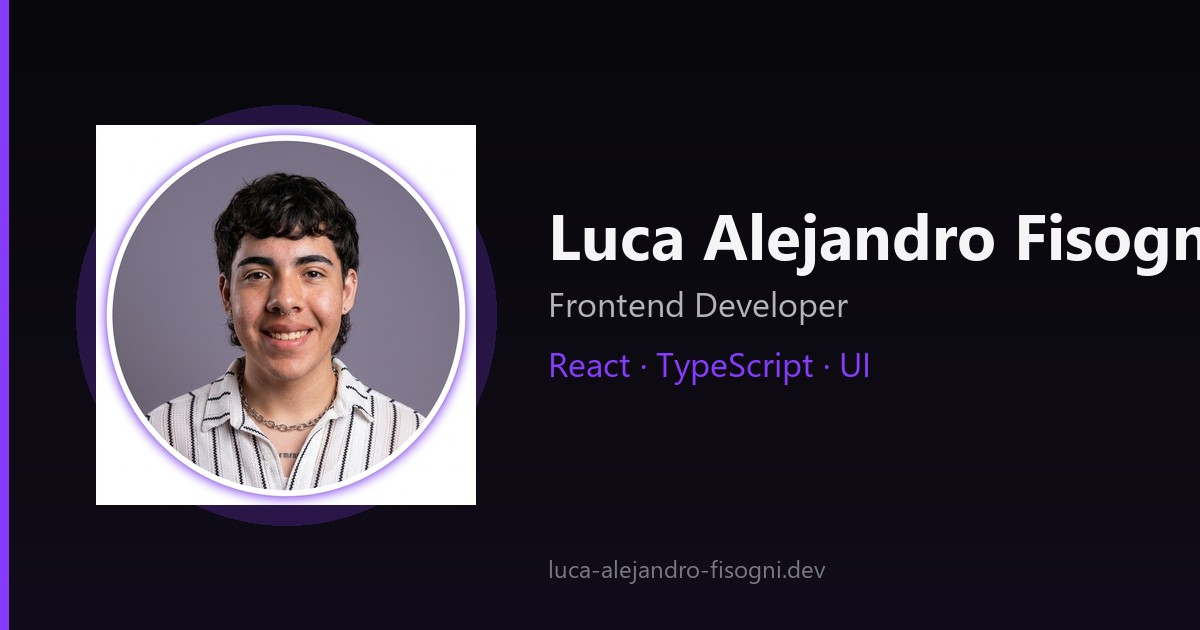
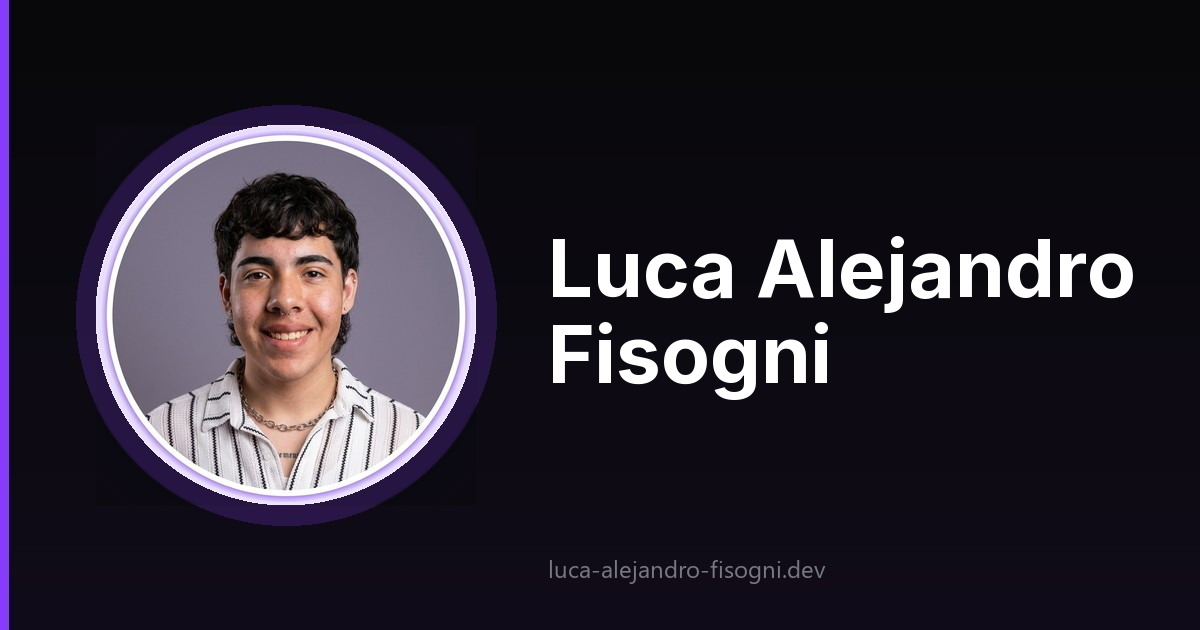
Mostrá el nombre entero en la imagen de Google y dejá el primer vistazo en español.

diff --git a/src/components/About.tsx b/src/components/About.tsx
@@ -29,14 +29,16 @@ export function About() {
               >
                 {copy.about.title}
               </h2>
-              <p className="mt-5 text-[15px] leading-relaxed text-white/75">{copy.about.bio[0]}</p>
+              <p data-nosnippet="" className="mt-5 text-[15px] leading-relaxed text-white/75">
+                {copy.about.bio[0]}
+              </p>
             </div>
           </div>
         </article>
 
         <article className="liquid-glass w-full rounded-[28px] px-6 py-8 md:ml-auto md:w-[86%] md:px-10 md:py-10">
           <div className="grid items-start gap-10 md:grid-cols-[1.15fr_0.85fr]">
-            <div className="space-y-5 text-[15px] leading-relaxed text-white/75">
+            <div data-nosnippet="" className="space-y-5 text-[15px] leading-relaxed text-white/75">
               <p>{copy.about.bio[1]}</p>
               <p>{copy.about.bio[2]}</p>
             </div>

diff --git a/src/locale.tsx b/src/locale.tsx
@@ -19,21 +19,24 @@ function readLocale(): Locale {
   } catch {
     /* private mode */
   }
-  if (navigator.language.toLowerCase().startsWith("es")) return "es"
-  return "en"
+  return "es"
 }
 
 export function LocaleProvider({ children }: { children: ReactNode }) {
-  const [locale, setLocale] = useState<Locale>(readLocale)
+  const [locale, setLocaleState] = useState<Locale>(readLocale)
+
+  const setLocale = (next: Locale) => {
+    try {
+      localStorage.setItem(STORAGE_KEY, next)
+    } catch {
+      /* private mode */
+    }
+    setLocaleState(next)
+  }
 
   useEffect(() => {
     document.documentElement.lang = locale
     applyLocaleSeo(locale)
-    try {
-      localStorage.setItem(STORAGE_KEY, locale)
-    } catch {
-      /* private mode */
-    }
   }, [locale])
 
   return (
